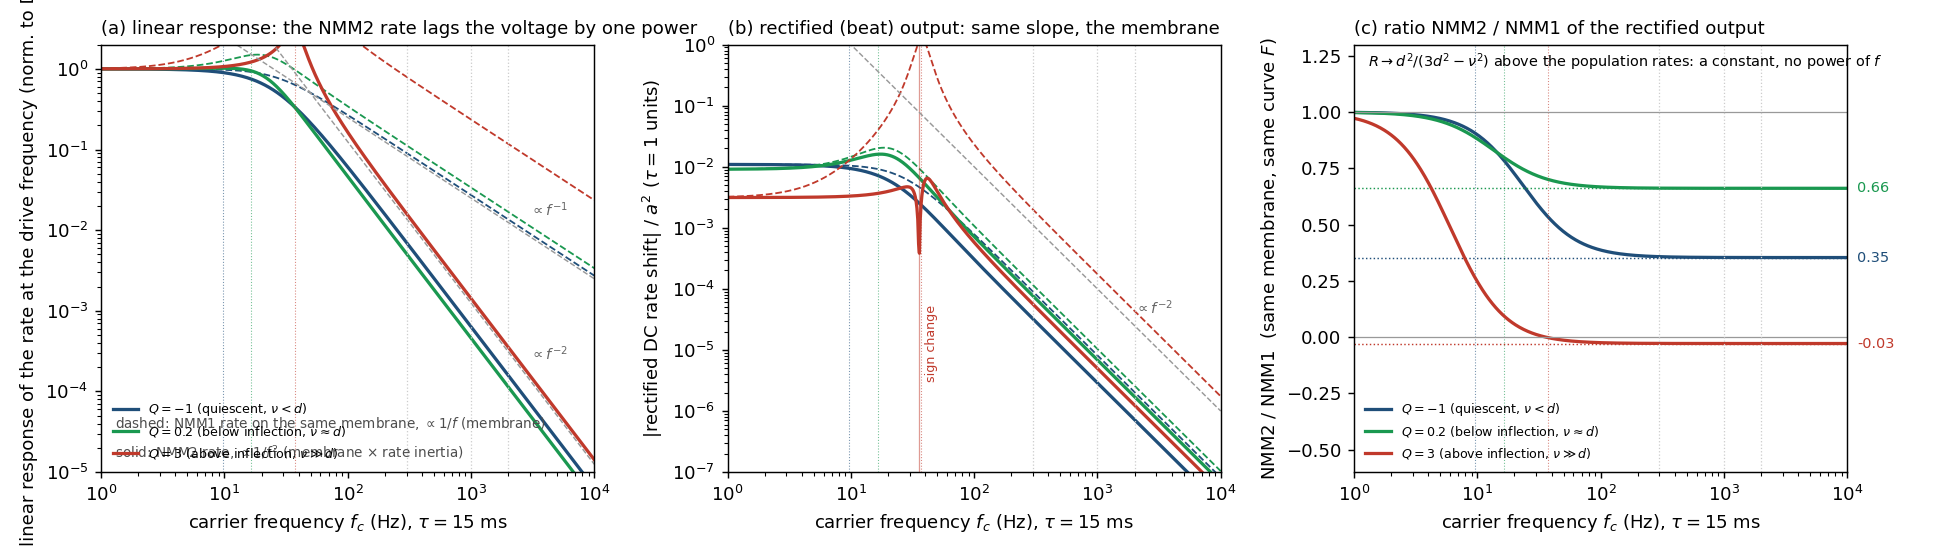
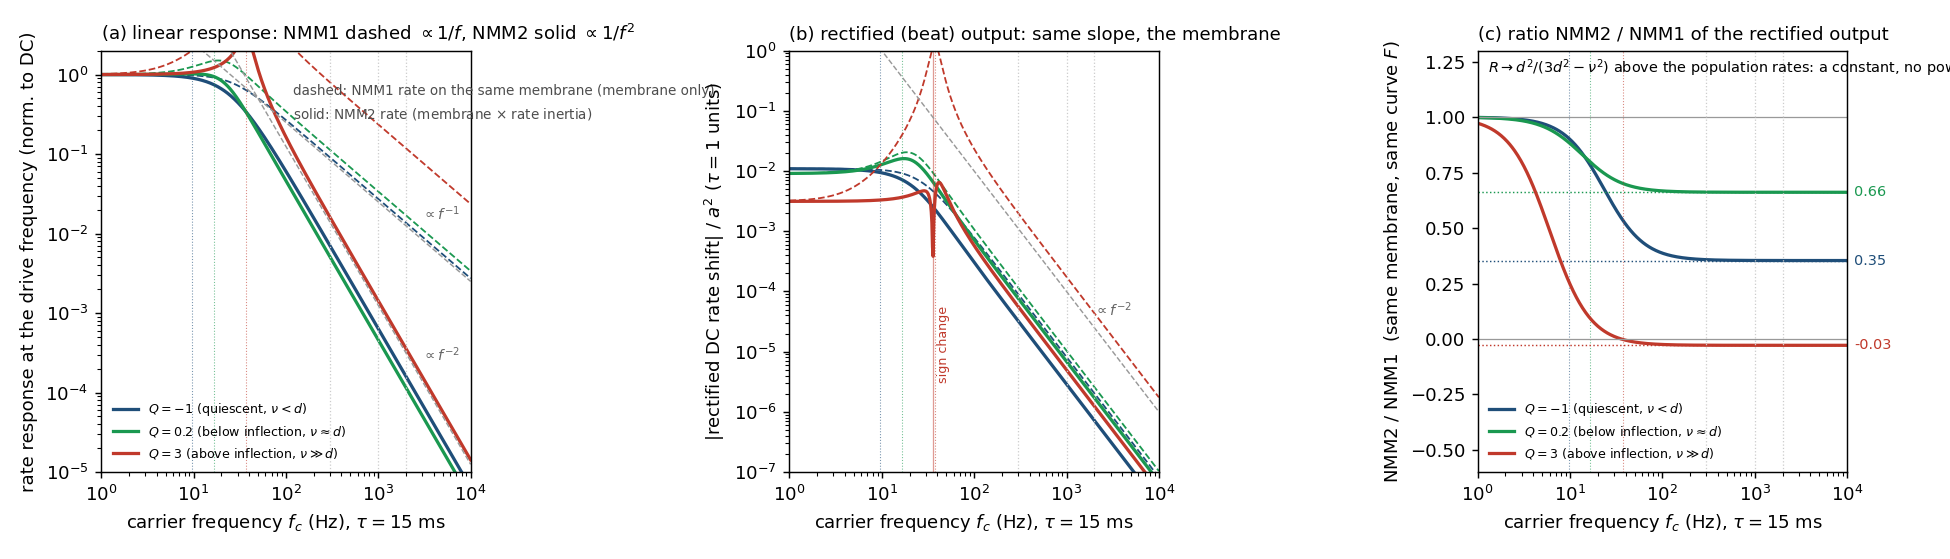
static_vs_dynamic check: panel (a) annotations clear of the legend

diff --git a/code/static_vs_dynamic_check.py b/code/static_vs_dynamic_check.py
@@ -38,9 +38,9 @@ g1=0.5*(f/50.)**-1; g2=0.5*(f/50.)**-2
 ax[0].plot(f,g1,color="0.6",lw=0.8,ls="--"); ax[0].text(3000,g1[np.searchsorted(f,3000)]*1.8,"$\\propto f^{-1}$",fontsize=8,color="0.4")
 ax[0].plot(f,g2,color="0.6",lw=0.8,ls="--"); ax[0].text(3000,g2[np.searchsorted(f,3000)]*1.8,"$\\propto f^{-2}$",fontsize=8,color="0.4")
 ax[0].set_xscale("log"); ax[0].set_yscale("log"); ax[0].set_ylim(1e-5,2)
-ax[0].set_ylabel("linear response of the rate at the drive frequency (norm. to DC)"); ax[0].set_title("(a) linear response: the NMM2 rate lags the voltage by one power",fontsize=10,loc="left")
-ax[0].text(1.3,3.5e-5,"dashed: NMM1 rate on the same membrane, $\\propto 1/f$ (membrane)",fontsize=7.5,color="0.3")
-ax[0].text(1.3,1.5e-5,"solid: NMM2 rate, $\\propto 1/f^2$ (membrane $\\times$ rate inertia)",fontsize=7.5,color="0.3")
+ax[0].set_ylabel("rate response at the drive frequency (norm. to DC)"); ax[0].set_title("(a) linear response: NMM1 dashed $\\propto 1/f$, NMM2 solid $\\propto 1/f^2$",fontsize=10,loc="left")
+ax[0].text(120,0.55,"dashed: NMM1 rate on the same membrane (membrane only)",fontsize=7.5,color="0.3")
+ax[0].text(120,0.28,"solid: NMM2 rate (membrane $\\times$ rate inertia)",fontsize=7.5,color="0.3")
 ax[1].set_xscale("log"); ax[1].set_yscale("log"); ax[1].set_ylim(1e-7,1)
 gl=1e-2*(f/100.)**-2; ax[1].plot(f,gl,color="0.6",lw=0.8,ls="--"); ax[1].text(2000,gl[np.searchsorted(f,2000)]*1.6,"$\\propto f^{-2}$",fontsize=8,color="0.4")
 ax[1].set_ylabel("|rectified DC rate shift| / $a^2$ ($\\tau=1$ units)"); ax[1].set_title("(b) rectified (beat) output: same slope, the membrane",fontsize=10,loc="left")
